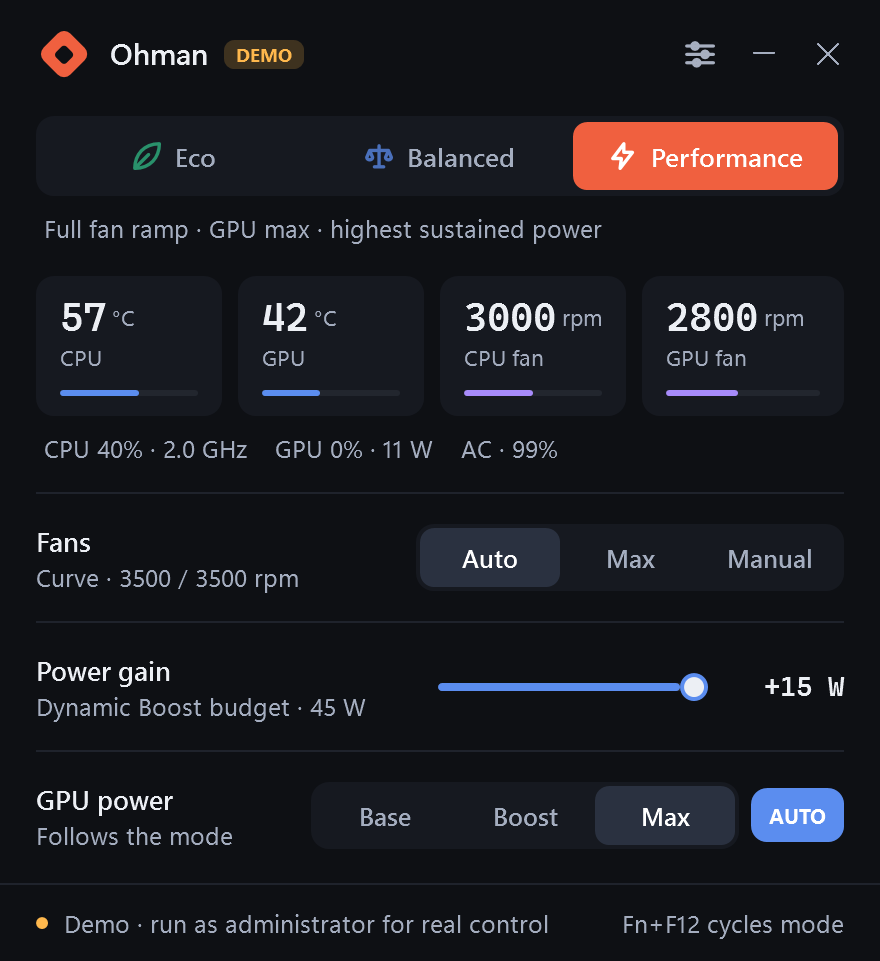
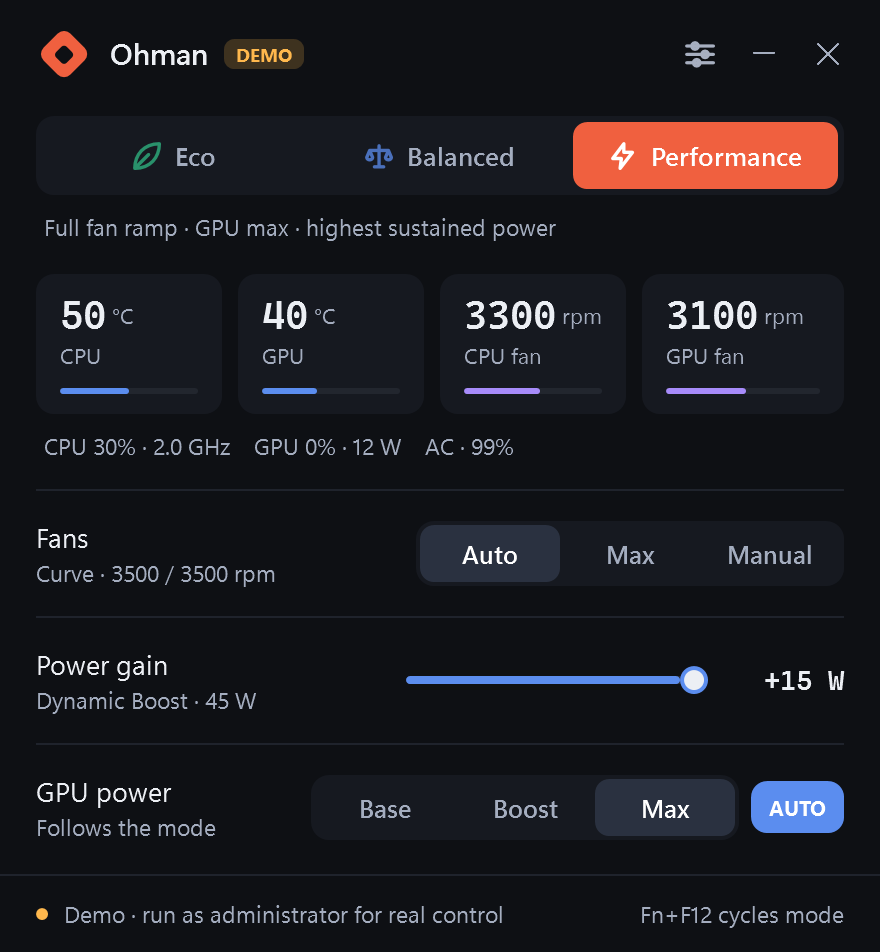
UI: back to Segoe UI Variable Text; shorter power-gain subscript

diff --git a/src/Ui.xaml b/src/Ui.xaml
@@ -7,27 +7,26 @@
     <SolidColorBrush x:Key="Text" Color="#ECEFF4"/>
     <SolidColorBrush x:Key="Muted" Color="#A4ADBF"/>
     <SolidColorBrush x:Key="Accent" Color="#5B8DEF"/>
-    <FontFamily x:Key="UiFont">Segoe UI</FontFamily>
-    <FontFamily x:Key="SmallFont">Segoe UI Variable Small, Segoe UI</FontFamily>
+    <FontFamily x:Key="UiFont">Segoe UI Variable Text, Segoe UI</FontFamily>
+    <FontFamily x:Key="SmallFont">Segoe UI Variable Text, Segoe UI</FontFamily>
     <FontFamily x:Key="HeadFont">Segoe UI Variable Display, Segoe UI</FontFamily>
     <FontFamily x:Key="MonoFont">Cascadia Mono, Consolas</FontFamily>
 
     <Style x:Key="Lbl" TargetType="TextBlock">
       <Setter Property="FontFamily" Value="{StaticResource UiFont}"/>
       <Setter Property="FontSize" Value="13.5"/>
-      <Setter Property="FontWeight" Value="SemiBold"/>
       <Setter Property="Foreground" Value="{StaticResource Text}"/>
       <Setter Property="VerticalAlignment" Value="Center"/>
     </Style>
     <Style x:Key="Sub" TargetType="TextBlock">
-      <Setter Property="FontFamily" Value="{StaticResource SmallFont}"/>
-      <Setter Property="FontSize" Value="12"/>
+      <Setter Property="FontFamily" Value="{StaticResource UiFont}"/>
+      <Setter Property="FontSize" Value="11.5"/>
       <Setter Property="Foreground" Value="{StaticResource Muted}"/>
       <Setter Property="TextWrapping" Value="Wrap"/>
       <Setter Property="Margin" Value="0,1,0,0"/>
     </Style>
     <Style x:Key="SubSm" TargetType="TextBlock" BasedOn="{StaticResource Sub}">
-      <Setter Property="FontSize" Value="11"/>
+      <Setter Property="FontSize" Value="10.5"/>
       <Setter Property="Opacity" Value="0.9"/>
     </Style>
     <Style x:Key="Mono" TargetType="TextBlock">
@@ -59,7 +58,7 @@
             <Border x:Name="B" CornerRadius="7" Background="Transparent" Padding="12,6">
               <ContentPresenter x:Name="CP" HorizontalAlignment="Center" VerticalAlignment="Center"
                                 TextElement.Foreground="#A4ADBF" TextElement.FontSize="12.5" TextElement.FontWeight="SemiBold"
-                                TextElement.FontFamily="Segoe UI"/>
+                                TextElement.FontFamily="Segoe UI Variable Text, Segoe UI"/>
             </Border>
             <ControlTemplate.Triggers>
               <Trigger Property="IsMouseOver" Value="True">
@@ -133,7 +132,7 @@
           <ControlTemplate TargetType="ToggleButton">
             <Border x:Name="B" CornerRadius="8" Background="{StaticResource Surface}" Padding="9,6">
               <ContentPresenter x:Name="CP" TextElement.Foreground="#A4ADBF" TextElement.FontSize="10.5" TextElement.FontWeight="Bold"
-                                TextElement.FontFamily="Segoe UI"/>
+                                TextElement.FontFamily="Segoe UI Variable Text, Segoe UI"/>
             </Border>
             <ControlTemplate.Triggers>
               <Trigger Property="IsChecked" Value="True">
@@ -413,13 +412,13 @@
         <!-- cpu power -->
         <Grid>
           <Grid.ColumnDefinitions>
-            <ColumnDefinition Width="188"/>
+            <ColumnDefinition Width="172"/>
             <ColumnDefinition Width="*"/>
             <ColumnDefinition Width="62"/>
           </Grid.ColumnDefinitions>
           <StackPanel VerticalAlignment="Center">
             <TextBlock Text="Power gain" Style="{StaticResource Lbl}"/>
-            <TextBlock x:Name="TxtPowerSub" Style="{StaticResource Sub}" Text="Dynamic Boost budget · 30 W"/>
+            <TextBlock x:Name="TxtPowerSub" Style="{StaticResource Sub}" Text="Dynamic Boost · 30 W"/>
           </StackPanel>
           <Slider x:Name="SlPower" Grid.Column="1" Style="{StaticResource Sl}" Minimum="0" Maximum="15" TickFrequency="5" IsSnapToTickEnabled="True" VerticalAlignment="Center" Margin="6,0"
                   ToolTip="What OMEN Gaming Hub calls Smart Performance Gain: raises the shared CPU + GPU power budget so NVIDIA Dynamic Boost has more headroom. Affects the GPU more than the CPU."/>

diff --git a/src/Ui.cs b/src/Ui.cs
@@ -30,8 +30,8 @@ namespace Ohman {
         public static readonly Color EcoColor = Col("#2FB984"), BalColor = Col("#5B8DEF"), PerfColor = Col("#F0603F"), FanColor = Col("#A78BFA");
         public static readonly Color Warn = Col("#FFB84D"), Danger = Col("#FF5C5C"), Ok = Col("#3DDC84");
         public static Color ModeColor(int i) { return i == 0 ? EcoColor : i == 2 ? PerfColor : BalColor; }
-        public static readonly FontFamily UiFont = new FontFamily("Segoe UI");
-        public static readonly FontFamily SmallFont = new FontFamily("Segoe UI Variable Small, Segoe UI");   // heavier strokes at 10-12 px
+        public static readonly FontFamily UiFont = new FontFamily("Segoe UI Variable Text, Segoe UI");
+        public static readonly FontFamily SmallFont = new FontFamily("Segoe UI Variable Text, Segoe UI");
         public static readonly FontFamily HeadFont = new FontFamily("Segoe UI Variable Display, Segoe UI");
         public static readonly FontFamily MonoFont = new FontFamily("Cascadia Mono, Consolas");
         public static readonly Brush Surface = Brush("#161920"), SurfaceHi = Brush("#1E222B"), TextB = Brush("#ECEFF4"), Muted = Brush("#A4ADBF"), Track = Brush("#22262E");
@@ -367,7 +367,7 @@ namespace Ohman {
             powerDebounce.Tick += delegate { powerDebounce.Stop(); int off = (int)slPower.Value; Bg(delegate { E.SetTdpOffset(off, true); }); };
             slPower.ValueChanged += delegate {
                 txtPower.Text = "+" + (int)slPower.Value + " W";
-                txtPowerSub.Text = "Dynamic Boost budget · " + (E.BaseTdp + (int)slPower.Value) + " W";
+                txtPowerSub.Text = "Dynamic Boost · " + (E.BaseTdp + (int)slPower.Value) + " W";
                 if (!syncing) { powerDebounce.Stop(); powerDebounce.Start(); }
             };
 
@@ -483,7 +483,7 @@ namespace Ohman {
                 var S = E.S; int mi = E.ModeIndex;
                 SelectMode(mi);
                 slPower.Value = S.TdpOffset; txtPower.Text = "+" + S.TdpOffset + " W";
-                txtPowerSub.Text = "Dynamic Boost budget · " + E.CurrentTdp + " W";
+                txtPowerSub.Text = "Dynamic Boost · " + E.CurrentTdp + " W";
                 fanAuto.IsChecked = S.Fan == FanMode.Auto; fanMax.IsChecked = S.Fan == FanMode.Max; fanManual.IsChecked = S.Fan == FanMode.Manual;
                 fanPanel.Visibility = S.Fan == FanMode.Manual ? Visibility.Visible : Visibility.Collapsed;
                 slFan1.Value = S.Fan1; slFan2.Value = S.Fan2; txtFan1.Text = FanText(S.Fan1); txtFan2.Text = FanText(S.Fan2);
